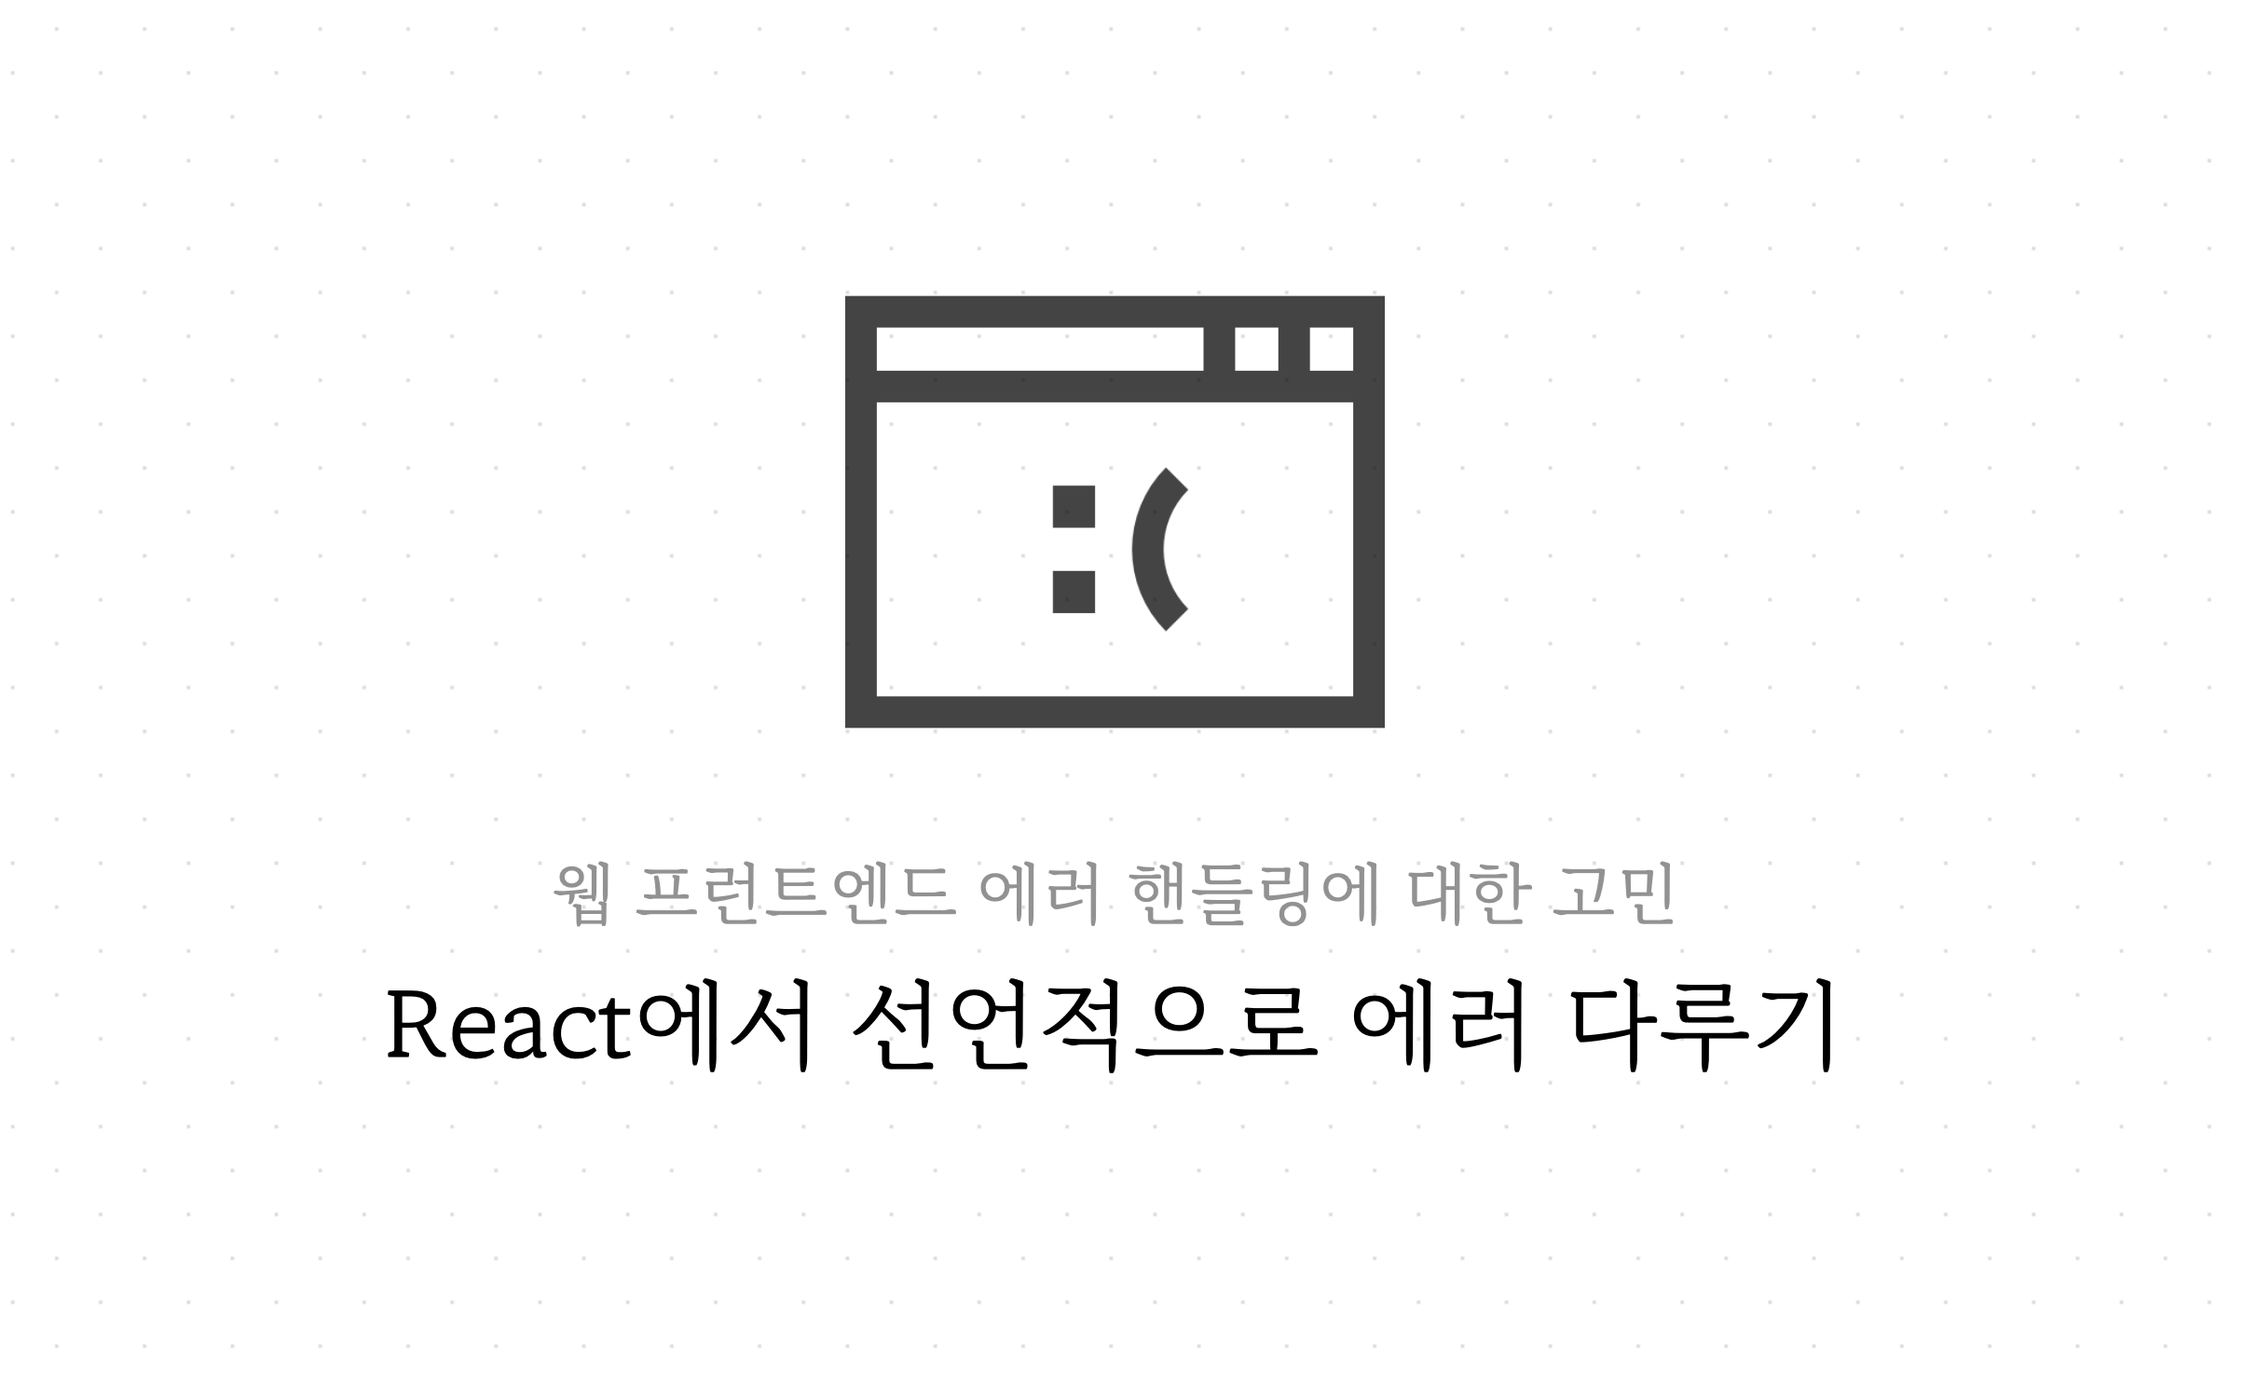
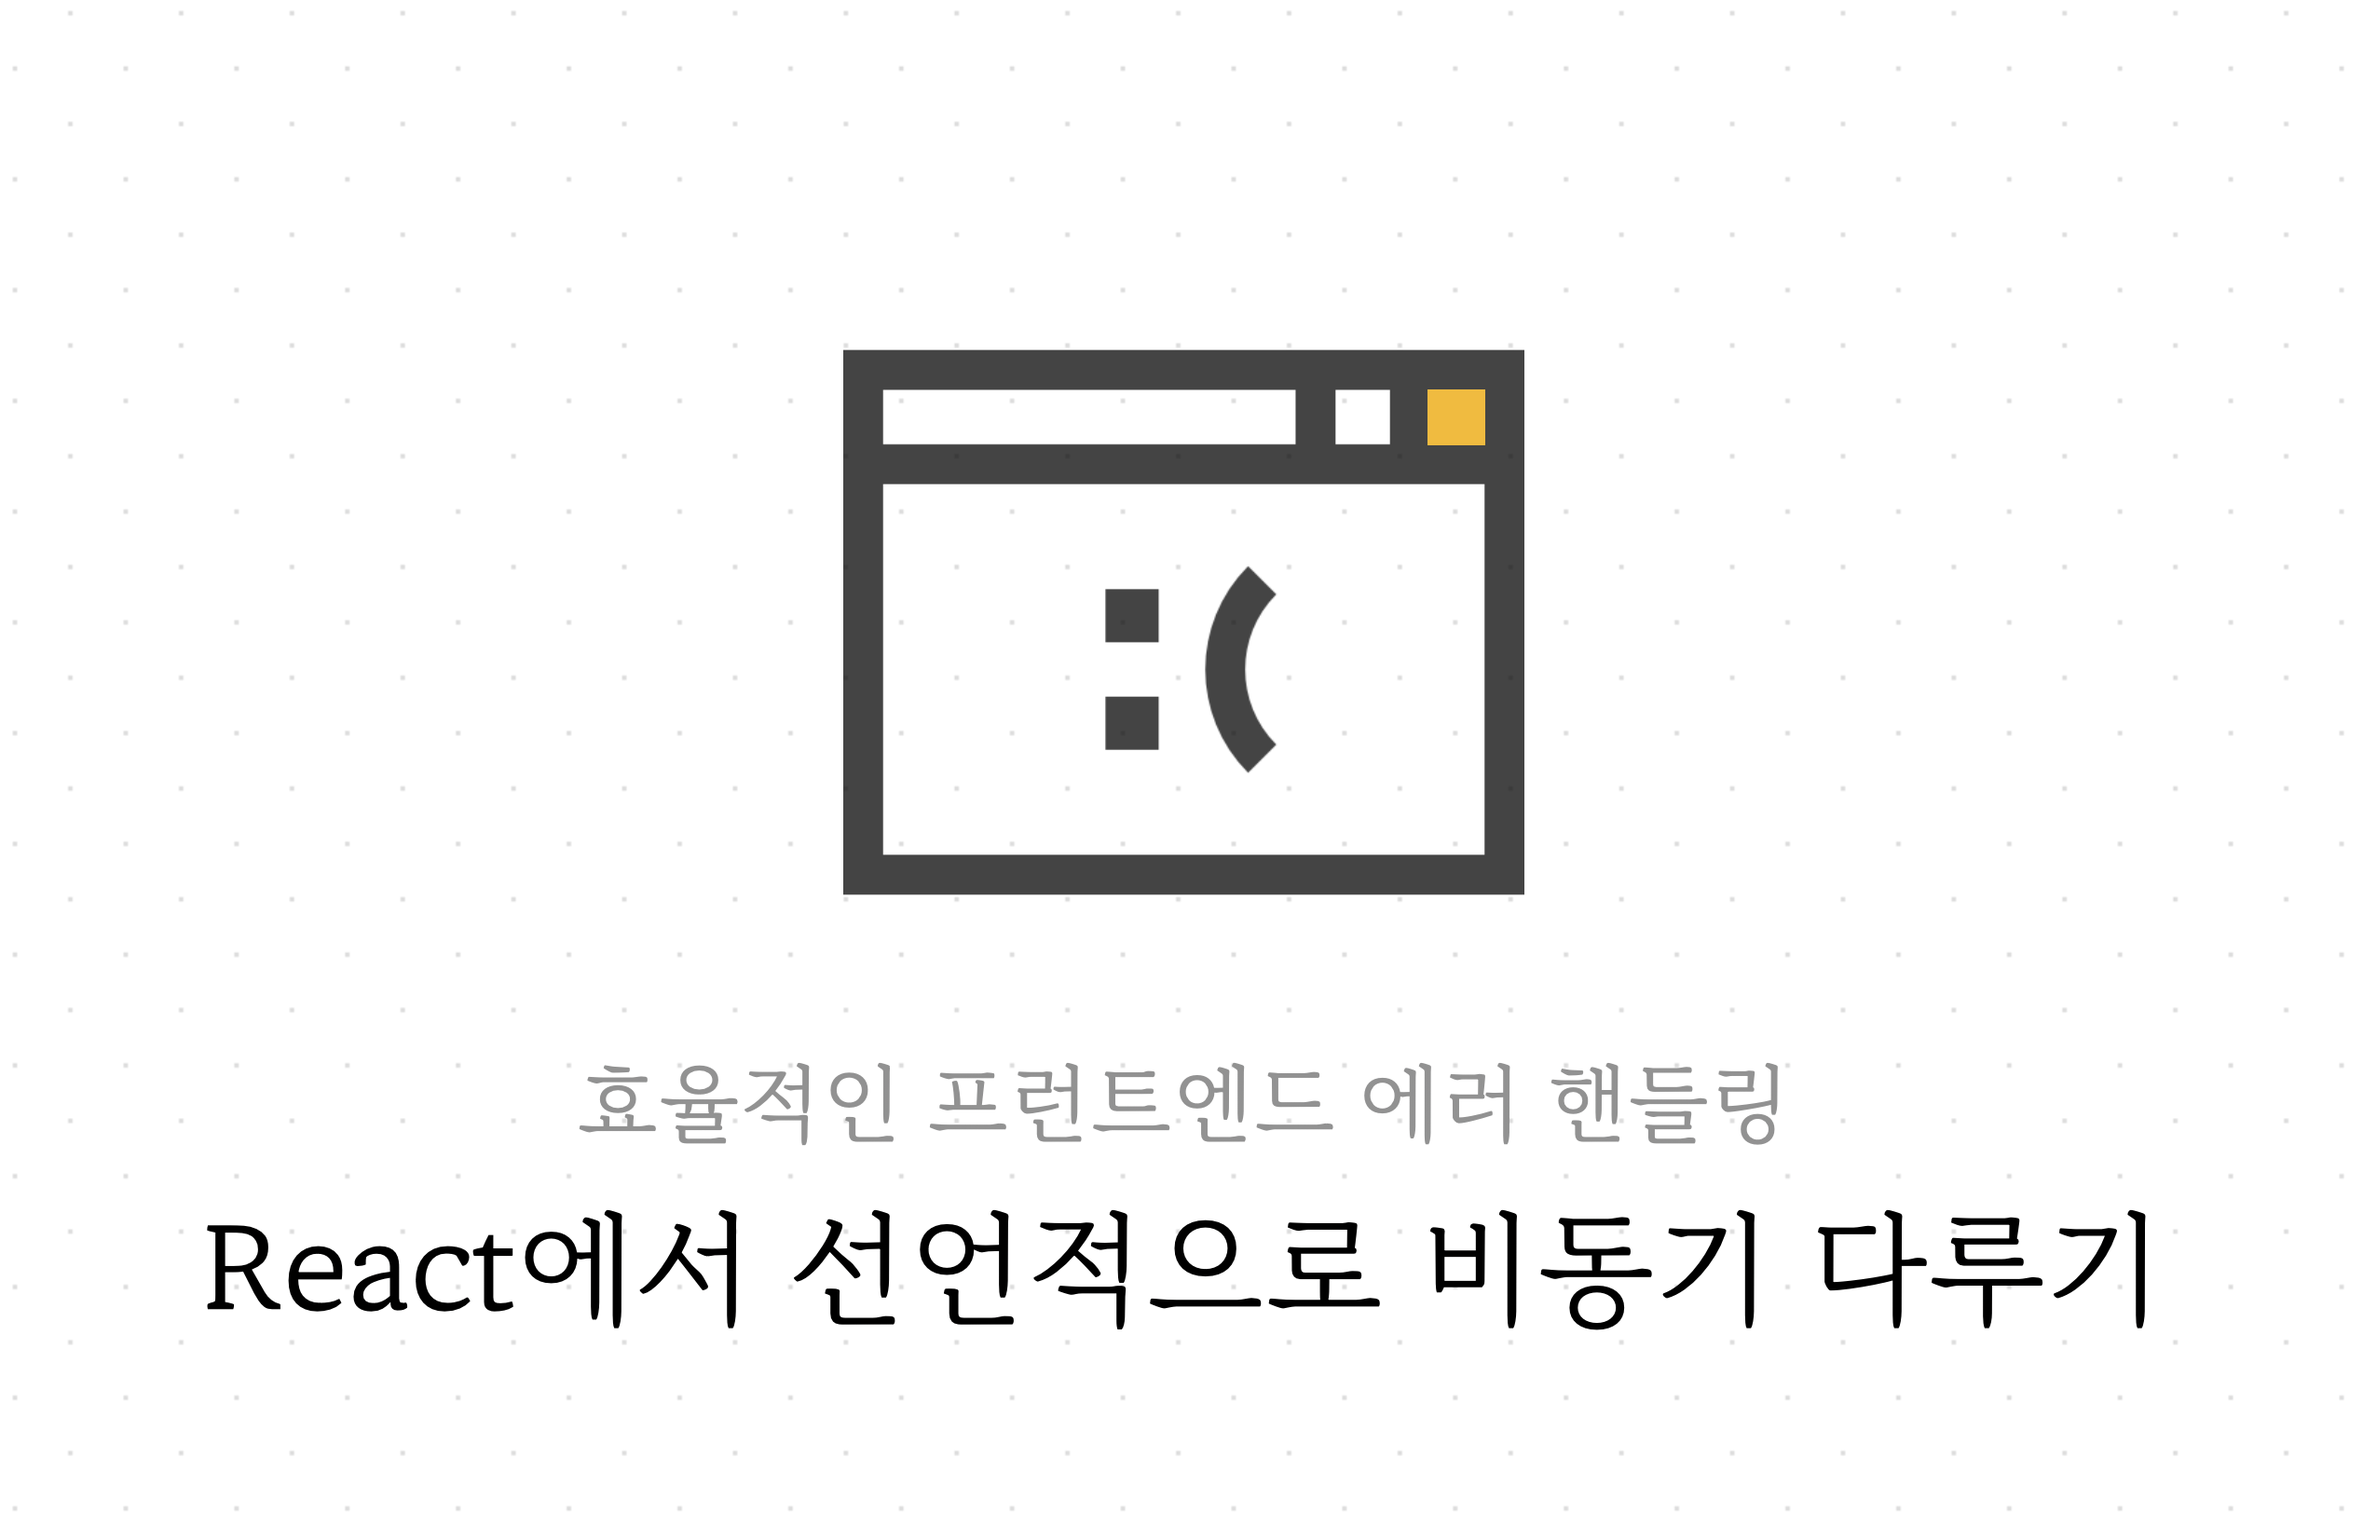
post: replace images

Changed region(s): [[0.0934, 0.6225, 0.9344, 0.8714], [0.3426, 0.1867, 0.6541, 0.5913]]

diff --git a/content/blog/react/error-declarative-handling-0.md b/content/blog/react/error-declarative-handling-0.md
@@ -2,15 +2,15 @@
 title: '효율적인 프런트엔드 에러 핸들링'
 date: 2021-03-13 18:03:28
 category: react
-thumbnail: './images/error-handling-thumbnail.png'
+thumbnail: './images/error-handling-thumbnail-0.png'
 draft: false
 ---
 
-![thumbnail](./images/error-handling-thumbnail.png)
+![thumbnail](./images/error-handling-thumbnail-0.png)
 
 제품을 개발한다면 에러 처리(Error Handling)는 반드시 마주하는 일이고 피할 수 없는 관심사라고 생각합니다. 에러를 어떻게 분류할 수 있는지 그리고 어떻게 처리할 수 있는지 고민을 해봤습니다. 좀 더 나아가 에러를 처리하는데 있어서 사용자 경험을 고려하며 우아하게 처리할 수 있도록 시도한 경험을 공유합니다.
 
-### [1. React에서 선언적으로 비동기 다루기](https://jbee.io/react/error-declarative-handling-1/)
+### 1. [React에서 선언적으로 비동기 다루기](https://jbee.io/react/error-declarative-handling-1/)
 
 에러를 효율적으로 다루기 위해 선언적으로 비동기를 정의하고 처리하는 방법을 고민했고 그 결과물을 공유합니다. Suspense와 ErrorBoundary를 사용하여 비동기 컴포넌트를 보다 효율적으로 처리하는 컴포넌트를 소개합니다.
 

diff --git a/content/blog/react/error-declarative-handling-1.md b/content/blog/react/error-declarative-handling-1.md
@@ -392,5 +392,5 @@ function UserDropDown() {
 
 |       |                                                                              |
 | :---: | :--------------------------------------------------------------------------: |
-| Next  | 2. 클라이언트의 사용자 중심 예외 처리 |
+| Next  | 2. 클라이언트의 사용자 중심 예외 처리  |
 | Intro | [0. Intro](https://jbee.io/react/error-declarative-handling-0) |
